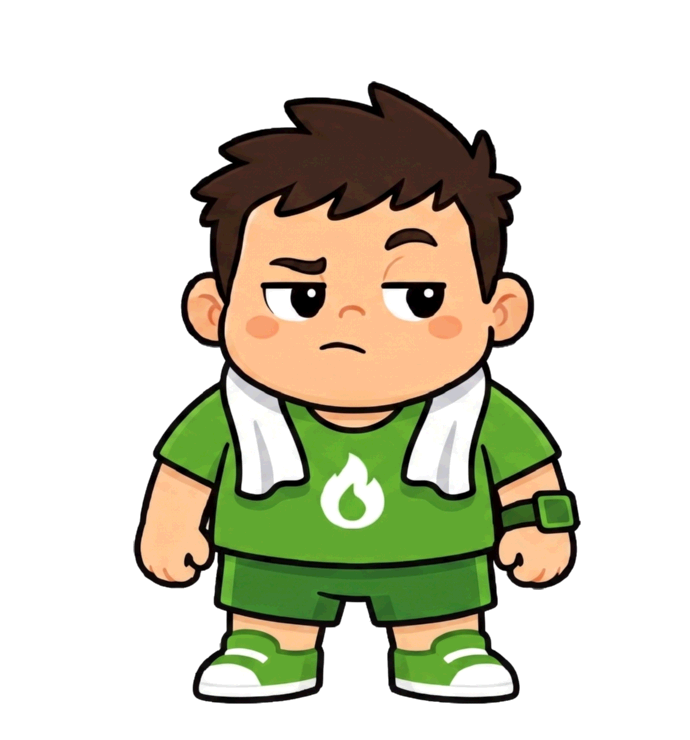
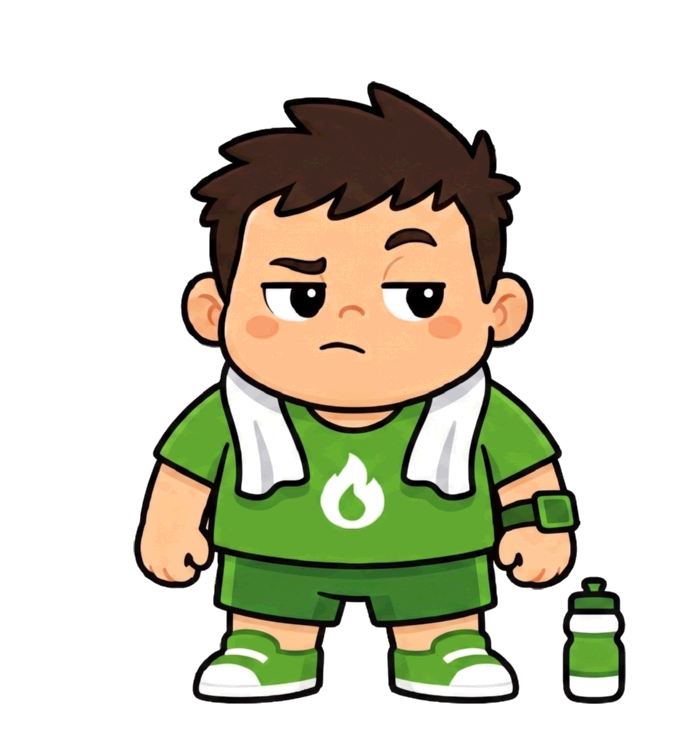
Preserva objetos soltos na arte e entra o jiu-jitsu refeito
O pipeline apagava tudo que nao estivesse ligado ao corpo do personagem,
para descartar pedacos do vizinho que vazam ao cortar a imagem ao meio.
Isso levava junto os objetos que o desenho quis. O corte era 20% do
tamanho do personagem, e agora e 1%.

O numero saiu de medir os componentes das 50 metades de todas as artes,
nao de chute: os objetos de verdade sao 3,6% (garrafinha do cardio), 5,2%
(alca do remo) e 7,3% (bola do volei); o maior lixo e um risco de 96px,
0,012%. Entre 0,012% e 3,6% nao existe nada, entao 1% cai no meio do
vazio, com folga de 3,6x para um lado e 83x para o outro.

Tamanho sozinho nao distingue um objeto legitimo de um pedaco grande do
vizinho invadindo, entao entrou um segundo criterio: componente que
encosta na linha onde a imagem foi cortada ao meio sai fora,
independente do tamanho. E por isso que keepLargestComponent agora
recebe de que lado veio a metade.

Efeito medido regerando as 25 artes: 19 sairam byte a byte identicas, e
so mudou o que devia -- a garrafinha do cardio e a bola do volei
voltaram a aparecer.

Jiu-jitsu: entra a arte refeita. Sem luvas de boxe, maos livres, pes a
mostra, e desta vez na proporcao certa (405px abaixo dos olhos, dentro da
faixa de 400-417 das outras artes, contra 487px da tentativa anterior que
estourava o canvas).

Correcao de rumo: eu tinha afirmado que as bolas de basquete, volei e
futebol eram todas apagadas pelo pipeline. So a do volei era. A do
[…]

diff --git a/mascote.js b/mascote.js
@@ -125,9 +125,9 @@ export const DESCRICOES_VISUAL = {
   basquete: 'Caloricio de uniforme de basquete com uma bola ao lado do pé',
   tenis: 'Caloricio de polo branco e viseira, segurando uma raquete',
   escalada: 'Caloricio de cadeirinha de escalada com saquinho de magnésio',
-  lutas: 'Caloricio de kimono com faixa preta e luvas de boxe',
+  lutas: 'Caloricio de kimono branco com faixa preta na cintura, descalço',
   esportes: 'Caloricio de uniforme de futebol com uma bola ao lado do pé',
-  cardio: 'Caloricio de camiseta esportiva com uma toalha no pescoço',
+  cardio: 'Caloricio de camiseta esportiva e toalha no pescoço, com uma garrafinha de água ao lado',
   bemestar: 'Caloricio com um tapete de yoga enrolado sob o braço',
   pilates: 'Caloricio de roupa justa e meias antiderrapantes, com um anel de pilates na mão',
   gpt: 'Caloricio de faixa na cabeça e moletom, pronto pro treino',

diff --git a/MASCOTE-PROMPT.md b/MASCOTE-PROMPT.md
@@ -189,6 +189,34 @@ separated from his body and fully inside the frame.
 
 ---
 
+## 2d. Objetos soltos agora sobrevivem
+
+O pipeline apagava tudo que não estivesse ligado ao corpo do personagem, para
+descartar pedaços do vizinho que vazam na hora de cortar a imagem ao meio. Isso
+levava junto os objetos que o desenho quis: a garrafinha do cardio e a bola do
+vôlei nunca chegaram ao site.
+
+O corte agora é **1% do tamanho do personagem**, e o número saiu de medir os
+componentes das 50 metades de todas as artes: os objetos de verdade são 3,6%
+(garrafinha), 5,2% (alça do remo) e 7,3% (bola do vôlei), enquanto o maior lixo
+é um risco de 96px, 0,012%. Entre 0,012% e 3,6% não existe nada — 1% cai no meio
+do vazio. Além disso, componente que encosta na linha onde a imagem foi cortada
+ao meio sai fora independente do tamanho: aquilo é o vizinho invadindo, e é a
+única coisa que o tamanho sozinho não distingue de um objeto legítimo.
+
+**Consequência para os prompts:** objeto no chão voltou a ser a melhor opção.
+Não peça mais o equipamento encostando no corpo — foi isso que embolou a
+segunda tentativa do remo.
+
+### Cuidado: o original do surf tem marca d'água
+
+`img/sources/caloricio-surf.png` é uma regeração posterior à arte publicada e
+traz a palavra "nonatinho" escrita na prancha. A arte que está no ar veio de um
+original anterior, limpo, que não temos mais. **Não reprocesse o surf** sem
+antes gerar um original novo sem marca d'água.
+
+---
+
 ## 2c. Resultado da rodada — 2 entraram, 2 precisam voltar
 
 **Cardio e Pilates entraram** e já estão no ar. **Jiu-jitsu e Remo voltaram**,
@@ -225,7 +253,38 @@ crossed over the chest, closed by a black belt tied in a knot at the waist,
 matching white gi pants that end above the ankles, and bare feet.
 ```
 
-### Remo — precisa voltar: a alça no chão é apagada pelo pipeline
+### Remo — 3ª tentativa: a corrente não pode passar abaixo dos pés
+
+**Situação:** a 1ª tentativa (alça solta no chão) era a certa — ela só foi
+recusada porque o pipeline apagava objeto solto, o que já está resolvido (2d). A
+2ª tentativa, com a alça encostando no corpo, embolou: saíram duas barras pretas
+cruzando as pernas e as mãos voltaram a segurar. **Voltamos para a 1ª**, que já
+está em `img/sources/caloricio-remo.png`.
+
+Falta pouco: nela a corrente se estende **abaixo da linha dos pés**, e aí o
+personagem precisa de 449px de canvas abaixo dos olhos, contra 435 disponíveis.
+São 14px — só o rabo da corrente. Peça de novo com essa única restrição a mais:
+
+```
+Same character, same rules as before. New outfit: indoor rowing (ergometer).
+
+Both hands empty and relaxed at his sides — he does NOT hold the handle. Do not
+draw any bar crossing his fists or his legs. Exactly ONE handle in the image per
+character.
+
+Outfit worn on the body: a sleeveless rowing singlet (a snug one-piece athletic
+top) with the flame logo, short compression shorts, and a sweatband on one wrist.
+
+Equipment: the black handle of a rowing machine with a short chain, lying flat
+on the ground next to his foot, separate from his body and not touching it.
+
+CRITICAL FRAMING: the handle and the chain must sit ON THE SAME GROUND LINE as
+his feet. Nothing may extend below the level of the soles of his shoes — the
+lowest point of the whole drawing must be his shoes, not the chain. Keep the
+chain short and beside the shoe, never trailing down past it.
+```
+
+### (histórico) Remo — 2ª tentativa: a alça no chão era apagada pelo pipeline
 
 O desenho veio exatamente como pedi: alça preta com corrente, no chão, longe
 das mãos. O problema é que **objeto solto no chão não sobrevive ao pipeline**.
